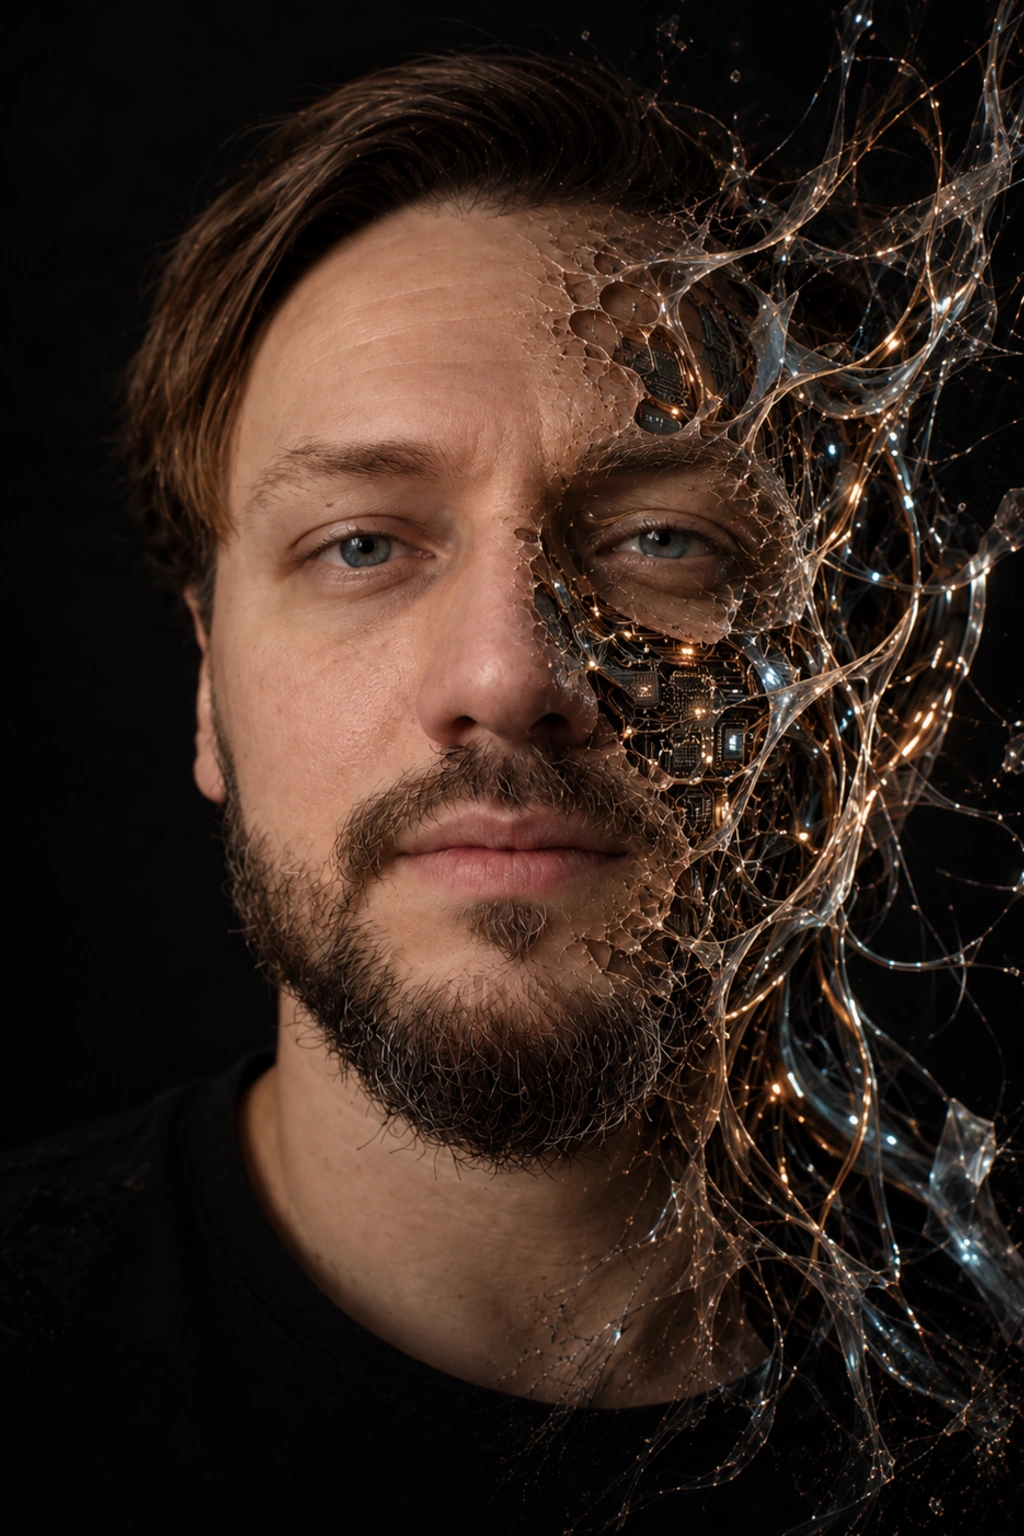
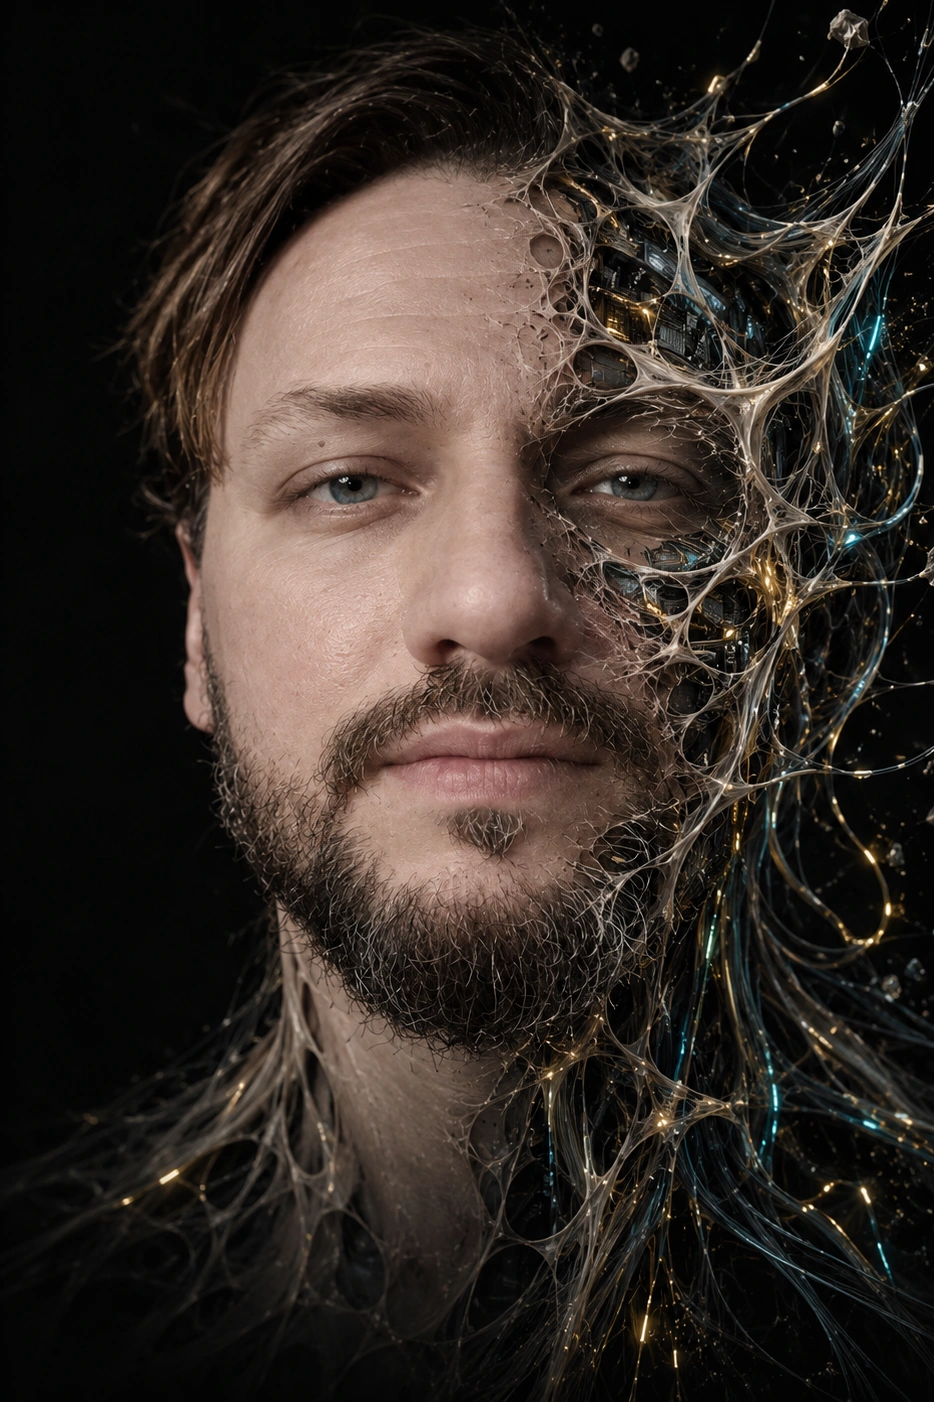
feat: new portrait (neural dissolve), 934x1402 native 2:3, q95

diff --git a/tr.html b/tr.html
@@ -78,7 +78,7 @@
       </filter>
     </defs>
   </svg>
-  <div class="face-portrait" aria-hidden="true"><img src="./zeda-entity.webp" alt="" width="1024" height="1536" fetchpriority="high" decoding="async"></div>
+  <div class="face-portrait" aria-hidden="true"><img src="./zeda-entity.webp" alt="" width="934" height="1402" fetchpriority="high" decoding="async"></div>
   <div class="neural-caption" aria-hidden="true"><span>ORGANİK OLAN</span><i></i><span>İNŞA EDİLMEMİŞ</span></div>
 
   <header class="site-header">

diff --git a/index.html b/index.html
@@ -78,7 +78,7 @@
       </filter>
     </defs>
   </svg>
-  <div class="face-portrait" aria-hidden="true"><img src="./zeda-entity.webp" alt="" width="1024" height="1536" fetchpriority="high" decoding="async"></div>
+  <div class="face-portrait" aria-hidden="true"><img src="./zeda-entity.webp" alt="" width="934" height="1402" fetchpriority="high" decoding="async"></div>
   <div class="neural-caption" aria-hidden="true"><span>THE ORGANIC</span><i></i><span>THE UNBUILT</span></div>
 
   <header class="site-header">
